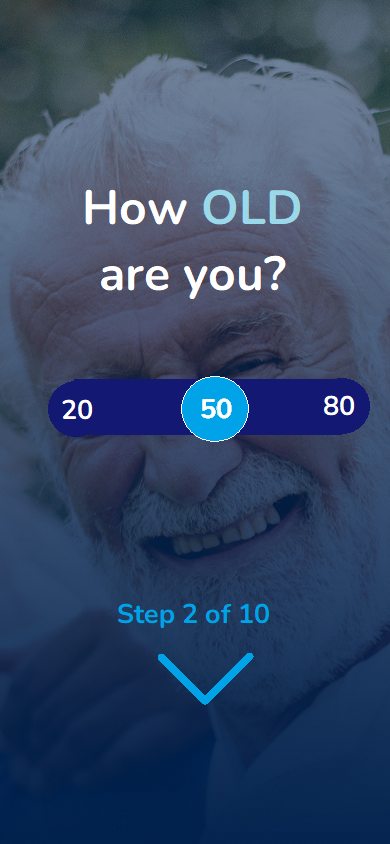
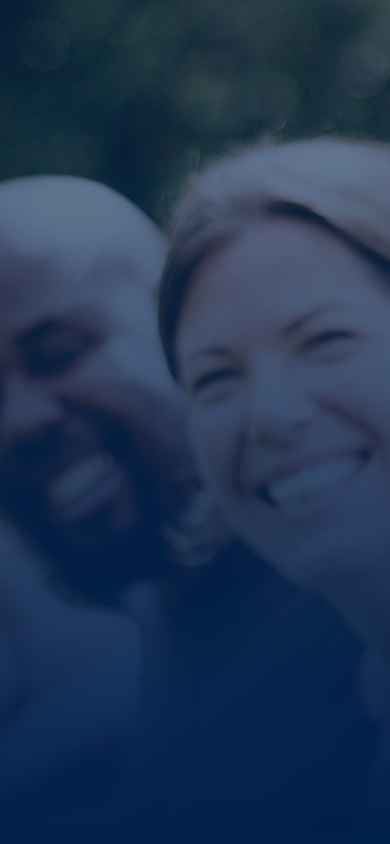
trying background images

diff --git a/snap.css b/snap.css
@@ -4,18 +4,30 @@ main {
   -ms-scroll-snap-type: y mandatory;
       scroll-snap-type: y mandatory;
   -webkit-overflow-scrolling: touch;
+
 }
 
 .section {
   height: 100vh;
-  display: flex;
+  display: flex; 
+  flex-direction: column;
   justify-content: center;
   align-items: center;
-  font-size: 2rem;
   scroll-snap-align: start;
 }
 
+h2 {
+  color: #ffffff;
+  font-family: Nunito, sans-serif;
+  font-size: 3em;
+  width: 90%; /* Full-width */
+  text-align: center;
+
+
+}
+
 .section-1 {
+  background-image: url("survey1-alt.png");
   background-color: #000000;
 }
 
@@ -47,5 +59,53 @@ body {
   padding-right: 1rem;
 }
 
+/* Slider SHIT */
+.slidecontainer {
+  width: 100%; /* Width of the outside container */
+}
 
+/* The slider itself */
+.slider {
+  -webkit-appearance: none;  /* Override default CSS styles */
+  appearance: none;
+  width: 80%; /* Full-width */
+  height: 25px; /* Specified height */
+  background: #d3d3d3; /* Grey background */
+  outline: none; /* Remove outline */
+  opacity: 0.7; /* Set transparency (for mouse-over effects on hover) */
+  -webkit-transition: .2s; /* 0.2 seconds transition on hover */
+  transition: opacity .2s;
+}
+
+/* Mouse-over effects */
+.slider:hover {
+  opacity: 1; /* Fully shown on mouse-over */
+}
+
+/* The slider handle (use -webkit- (Chrome, Opera, Safari, Edge) and -moz- (Firefox) to override default look) */
+.slider::-webkit-slider-thumb {
+  -webkit-appearance: none; /* Override default look */
+  appearance: none;
+  border-radius: 100%;
+
+  margin-top: 0rem; /* Centers thumb on the track */
+
+  background-color: #5cd5eb;
+  height: 2.5rem;
+  width: 2.5rem;
+
+  /*
+  width: 25px; 
+  height: 25px; 
+  background: #04AA6D; 
+  cursor: pointer; 
+  */
+}
+
+.slider::-moz-range-thumb {
+  width: 25px; /* Set a specific slider handle width */
+  height: 25px; /* Slider handle height */
+  background: #04AA6D; /* Green background */
+  cursor: pointer; /* Cursor on hover */
+}
 

diff --git a/index.htm b/index.htm
@@ -7,16 +7,19 @@
     <link rel="stylesheet" href="snap.css">
      <title>Test SnapScroll Page</title>
 	  
-     <!-- CSS for Bootstrap -->
+     <!-- CSS for Bootstrap 
 	  <link rel="stylesheet" href="https://cdn.jsdelivr.net/npm/bootstrap@4.6.1/dist/css/bootstrap.min.css" integrity="sha384-zCbKRCUGaJDkqS1kPbPd7TveP5iyJE0EjAuZQTgFLD2ylzuqKfdKlfG/eSrtxUkn" crossorigin="anonymous">
+     -->
 
   </head>
 
-  <body style="background-color:lightcyan;" onload="initializePage()">
+  <body onload="initializePage()">
 
     <main>
       <section class="section section-1">
-      <img src="survey1-alt.png" style="width:400px">
+        <h2>How OLD are you?</h2>
+        <input type="range" min="1" max="100" value="50" class="slider" id="myRange">
+        <h2>A: 50</h2>
       </section>
       <section class="section section-2">
         <img src="survey2-alt.png" style="width:400px">
@@ -32,9 +35,9 @@
       </section>
     </main>
 
-    <!-- JavaScript Bundle with Popper -->
+    <!-- JavaScript Bundle with Popper 
     <script src="https://cdn.jsdelivr.net/npm/jquery@3.5.1/dist/jquery.slim.min.js" integrity="sha384-DfXdz2htPH0lsSSs5nCTpuj/zy4C+OGpamoFVy38MVBnE+IbbVYUew+OrCXaRkfj" crossorigin="anonymous"></script>
     <script src="https://cdn.jsdelivr.net/npm/bootstrap@4.6.1/dist/js/bootstrap.bundle.min.js" integrity="sha384-fQybjgWLrvvRgtW6bFlB7jaZrFsaBXjsOMm/tB9LTS58ONXgqbR9W8oWht/amnpF" crossorigin="anonymous"></script>
-
+    <-->
   </body>
 </html>
